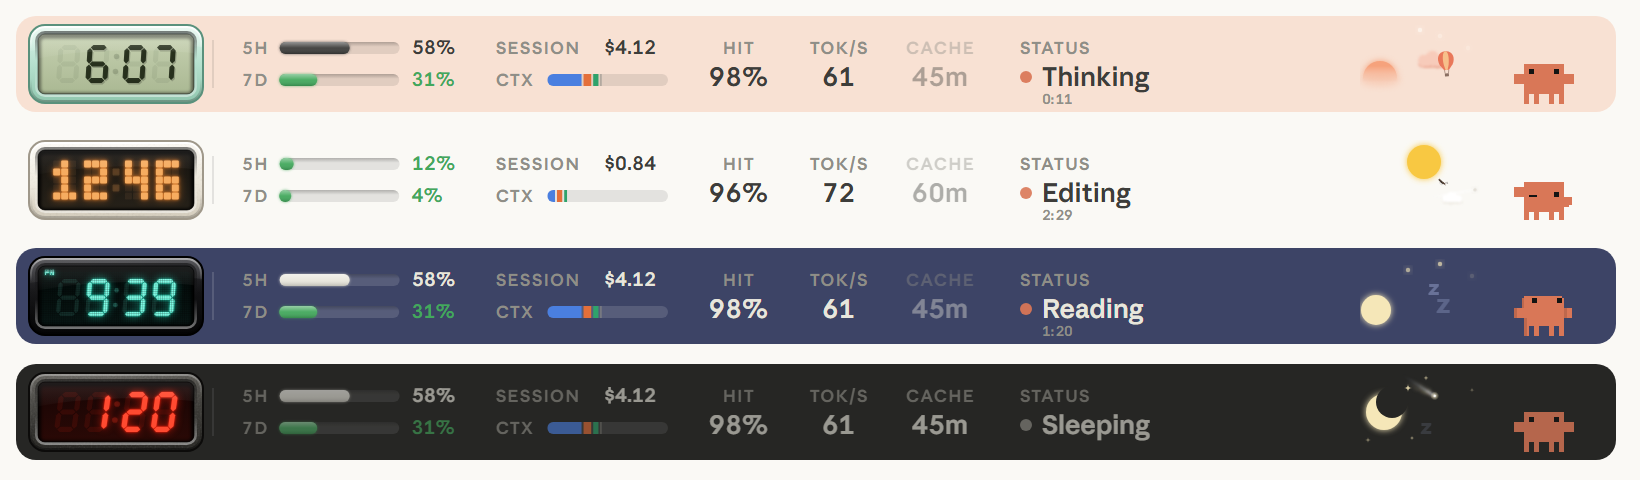
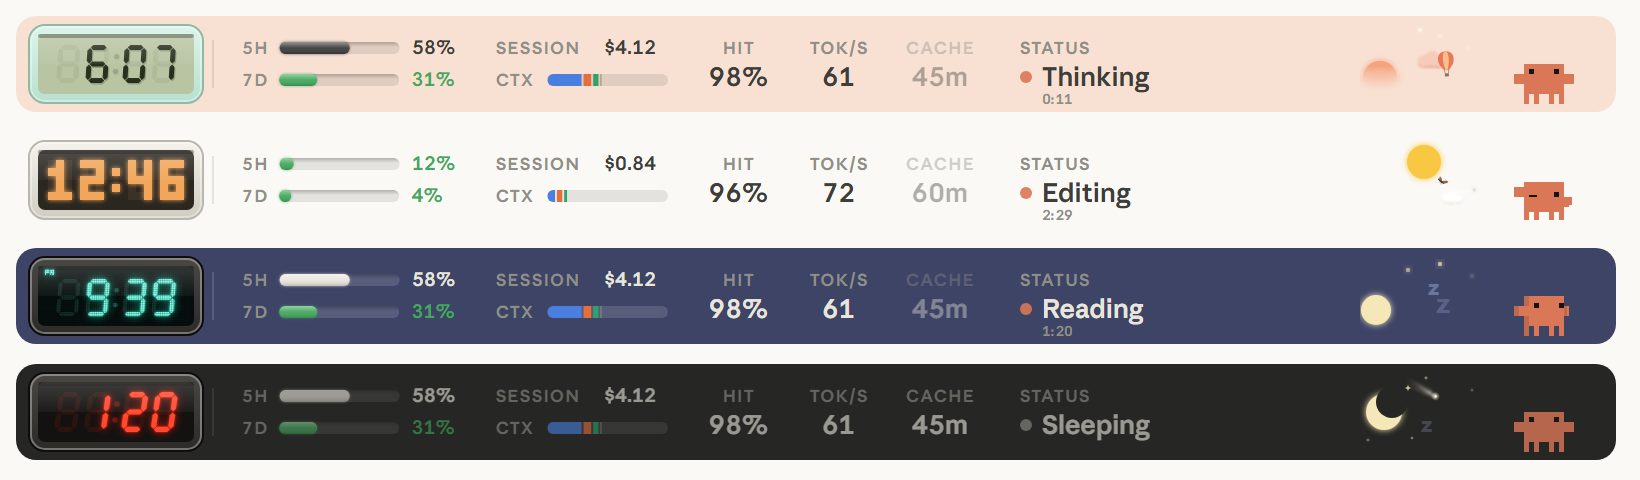
Clawd band 1.8.1: the original desk clock by day, and plain casings on the other clocks
Morning to the golden hour are the original cream desk clock again. The dawn, dusk, evening and night clocks drop the realistic textures, bevels and shading and use the desk clock's own casing in their colours.

diff --git a/clawd-band/hooks/clocks.ts b/clawd-band/hooks/clocks.ts
@@ -1,72 +1,24 @@
 import { DAY_PERIODS, periodAt } from './design'
+import { deskClock } from './pixel-clock'
 
-// The band's clock: one fixed look for each stage of the day, all in the same 88 by 40 casing.
-// Each is one standalone SVG: a casing (material, bevel, rim), a recessed screen (inner shadow, glass glare) and a digit style.
+// The band's clock: a look for each stage of the day, all in the desk clock's 88 by 40 casing.
+// Morning to the golden hour keep the desk clock itself; the other stages change the casing's
+// colour, the screen and the digits.
 
-type Stop = [number, string, number?]
 type Time = { H: number; m: number; s: number; pm: boolean; hr: string; mm: string; h1: string | null; h2: string; m1: string; m2: string }
 type Glow = [string, number, number, number, number]
-type Material = { base: Stop[]; rim: string; hi: number; lo: number; tex?: string }
-type Screen = { base: Stop[]; sh: number; glare: number; edge?: number }
-type Look = { mat: Material; scr: Screen; fmt: '12' | '24'; draw: (t: Time) => string }
+type Look = { top: string; bot: string; rim: string; screen: string; fmt: '12' | '24'; draw: (t: Time) => string }
 
 const r2 = (n: number) => Math.round(n * 100) / 100
-const rr = (x: number, y: number, w: number, h: number, r: number) =>
-  `M${x + r} ${y}H${x + w - r}A${r} ${r} 0 0 1 ${x + w} ${y + r}V${y + h - r}A${r} ${r} 0 0 1 ${x + w - r} ${y + h}H${x + r}A${r} ${r} 0 0 1 ${x} ${y + h - r}V${y + r}A${r} ${r} 0 0 1 ${x + r} ${y}Z`
-const BODY = 'x=".5" y=".5" width="87" height="39" rx="8"'
-const SCREEN = 'x="5" y="5" width="78" height="30" rx="3.5"'
-const RING = rr(3.5, 3.5, 81, 33, 5) + rr(5, 5, 78, 30, 3.5)
-const FU = 'filterUnits="userSpaceOnUse" color-interpolation-filters="sRGB"'
-const SCR_F = `x="5" y="5" width="78" height="30" ${FU}`
-const stops = (s: Stop[]) => s.map(([o, c, a]) => `<stop offset="${o}" stop-color="${c}"${a == null ? '' : ` stop-opacity="${a}"`}/>`).join('')
-const lin = (id: string, s: Stop[], x2 = 0, y2 = 1) => `<linearGradient id="${id}" x1="0" y1="0" x2="${x2}" y2="${y2}">${stops(s)}</linearGradient>`
-const rad = (id: string, s: Stop[], cx = 0.5, cy = 0.5, r = 0.5) => `<radialGradient id="${id}" cx="${cx}" cy="${cy}" r="${r}">${stops(s)}</radialGradient>`
 const BLINK = '<animate attributeName="opacity" values="1;.12" keyTimes="0;.5" calcMode="discrete" dur="2s" repeatCount="indefinite"/>'
 
 // A lit element's glow: a tight and a wide halo in `c`, under the element itself.
 const glowF = (id: string, c: string, sd1: number, a1: number, sd2: number, a2: number) =>
-  `<filter id="${id}" ${SCR_F}>` +
+  `<filter id="${id}" x="5" y="5" width="78" height="30" filterUnits="userSpaceOnUse" color-interpolation-filters="sRGB">` +
   `<feGaussianBlur in="SourceAlpha" stdDeviation="${sd1}" result="b1"/><feGaussianBlur in="SourceAlpha" stdDeviation="${sd2}" result="b2"/>` +
   `<feFlood flood-color="${c}"/><feComposite in2="b1" operator="in"/><feComponentTransfer result="g1"><feFuncA type="linear" slope="${a1}"/></feComponentTransfer>` +
   `<feFlood flood-color="${c}"/><feComposite in2="b2" operator="in"/><feComponentTransfer result="g2"><feFuncA type="linear" slope="${a2}"/></feComponentTransfer>` +
   `<feMerge><feMergeNode in="g2"/><feMergeNode in="g1"/><feMergeNode in="SourceGraphic"/></feMerge></filter>`
-
-// ---- textures: a noise field turned into dark grains (where high) and light grains (where low) ----
-const grainF = (id: string, turb: string, k: number, kl = k) =>
-  `<filter id="${id}" x="0" y="0" width="88" height="40" ${FU}>${turb.replace('/>', ' result="n"/>')}` +
-  `<feColorMatrix in="n" values="0 0 0 0 0 0 0 0 0 0 0 0 0 0 0 ${k} 0 0 0 ${-k / 2}" result="d"/>` +
-  `<feColorMatrix in="n" values="0 0 0 0 1 0 0 0 0 1 0 0 0 0 1 ${-kl} 0 0 0 ${kl / 2}" result="l"/>` +
-  `<feMerge><feMergeNode in="d"/><feMergeNode in="l"/></feMerge></filter><rect width="88" height="40" filter="url(#${id})"/>`
-const turb = (f: string, o: number, seed: number) => `<feTurbulence type="fractalNoise" baseFrequency="${f}" numOctaves="${o}" seed="${seed}"/>`
-
-// ---- sheens over the casing ----
-const satin = (a: number) =>
-  `<radialGradient id="sa" cx=".28" cy="-.15" r=".95"><stop offset="0" stop-color="#fff" stop-opacity="${a}"/><stop offset="1" stop-color="#fff" stop-opacity="0"/></radialGradient><rect ${BODY} fill="url(#sa)"/>`
-const gloss = (a: number) =>
-  lin('gs', [[0, '#fff', a], [1, '#fff', a * 0.25]]) + `<path clip-path="url(#bc)" d="M0 0H88V11.5C63 9.2 25 9.6 0 13.6Z" fill="url(#gs)"/>`
-
-// ---- casings: base is the vertical gradient; hi and lo the bevel's light on top and shade below; rim the outer edge ----
-const MAT: Record<'cream' | 'graphite' | 'piano' | 'carbon' | 'mint', Material> = {
-  cream: { base: [[0, '#FAF7F0'], [0.55, '#ECE7DB'], [1, '#D2CBBB']], rim: '#9F988A', hi: 0.95, lo: 0.2, tex: grainF('pl', turb('.9', 1, 2), 0.1) + satin(0.5) },
-  graphite: { base: [[0, '#55534E'], [0.5, '#3D3C38'], [1, '#2A2926']], rim: '#0C0B0A', hi: 0.32, lo: 0.4, tex: grainF('gr', turb('1.1', 1, 4), 0.28, 0.18) + satin(0.16) },
-  piano: { base: [[0, '#2E2E33'], [0.45, '#121214'], [1, '#050506']], rim: '#000', hi: 0.5, lo: 0.4, tex: gloss(0.2) + satin(0.08) },
-  carbon: {
-    base: [[0, '#1D1E20'], [1, '#0B0B0C']], rim: '#000', hi: 0.4, lo: 0.5,
-    tex: lin('ch', [[0, '#050505'], [0.5, '#3B3C40'], [1, '#050505']]) + lin('cv', [[0, '#050505'], [0.5, '#2A2B2E'], [1, '#050505']], 1, 0) +
-      '<pattern id="cw" width="4.4" height="4.4" patternUnits="userSpaceOnUse" patternTransform="rotate(45)"><rect width="2.2" height="2.2" fill="url(#ch)"/><rect x="2.2" y="2.2" width="2.2" height="2.2" fill="url(#ch)"/><rect x="2.2" width="2.2" height="2.2" fill="url(#cv)"/><rect y="2.2" width="2.2" height="2.2" fill="url(#cv)"/></pattern>' +
-      '<rect width="88" height="40" fill="url(#cw)" opacity=".85"/>' + gloss(0.14) + satin(0.1),
-  },
-  mint: { base: [[0, '#DDF4EA'], [0.5, '#B6E1CE'], [1, '#90C6AE']], rim: '#5A917C', hi: 0.9, lo: 0.25, tex: gloss(0.5) },
-}
-
-// ---- screens: base gradient, inner shadow strength, glass glare ----
-const SCR: Record<'amber' | 'red' | 'vfd' | 'jet' | 'lcd', Screen> = {
-  amber: { base: [[0, '#16130F'], [1, '#262119']], sh: 0.8, glare: 0.1 },
-  red: { base: [[0, '#170504'], [1, '#2A0906']], sh: 0.8, glare: 0.11 },
-  vfd: { base: [[0, '#020807'], [1, '#081614']], sh: 0.85, glare: 0.12 },
-  jet: { base: [[0, '#020203'], [1, '#0C0C0E']], sh: 0.85, glare: 0.14 },
-  lcd: { base: [[0, '#C6D1B1'], [1, '#AAB893']], sh: 0.45, glare: 0.18, edge: 0.45 },
-}
 
 // ---- time ----
 function time(ms: number, fmt: '12' | '24'): Time {
@@ -111,26 +63,6 @@ const seg7 = (o: Seven) => (t: Time) => {
     `<g fill="${o.c}"${o.op ? ` fill-opacity="${o.op}"` : ''}${g1 ? ' filter="url(#lg)"' : ''}>${lit}${colon}${o.pm ? o.pm(t) : ''}</g>` + (o.over ?? '')
 }
 
-// ---- a 3 by 5 pixel font, each pixel a rounded square, with the unlit ones faintly showing ----
-const F3: Record<string, string[]> = {
-  0: ['###', '#.#', '#.#', '#.#', '###'], 1: ['.#.', '##.', '.#.', '.#.', '###'], 2: ['###', '..#', '###', '#..', '###'],
-  3: ['###', '..#', '.##', '..#', '###'], 4: ['#.#', '#.#', '###', '..#', '..#'], 5: ['###', '#..', '###', '..#', '###'],
-  6: ['###', '#..', '###', '#.#', '###'], 7: ['###', '..#', '.#.', '.#.', '.#.'], 8: ['###', '#.#', '###', '#.#', '###'],
-  9: ['###', '#.#', '###', '..#', '###'],
-}
-const pixel = (o: { pitch: number; size: number; rx: number; sp: number; cg: number; c: string; ghost: number; glow: Glow }) => (t: Time) => {
-  const cw = 3 * o.pitch, { xs, cx } = row(cw - (o.pitch - o.size), o.sp, o.cg), y0 = 20 - (5 * o.pitch - (o.pitch - o.size)) / 2
-  const cell = (x: number, y: number) => `<rect x="${r2(x)}" y="${r2(y)}" width="${o.size}" height="${o.size}" rx="${o.rx}"/>`
-  let lit = '', off = ''
-  digits(t).forEach((n, i) => F3['8']!.forEach((r, y) => [...r].forEach((_, c) => {
-    const e = cell(xs[i]! + c * o.pitch, y0 + y * o.pitch)
-    if (n != null && F3[n]![y]![c] === '#') lit += e
-    else off += e
-  })))
-  const colon = [1, 3].map(r => cell(cx - o.size / 2, y0 + r * o.pitch)).join('')
-  return glowF('lg', ...o.glow) + `<g fill="${o.c}" fill-opacity="${o.ghost}">${off}${colon}</g><g fill="${o.c}" filter="url(#lg)">${lit}<g>${colon}${BLINK}</g></g>`
-}
-
 // ---- hand-drawn single-stroke figures in a 10 by 16 box ----
 const G: Record<string, string> = {
   0: 'M5 0C2.2 0 .6 3 .6 8S2.2 16 5 16 9.4 13 9.4 8 7.8 0 5 0Z',
@@ -167,19 +99,18 @@ const secBar = (c: string) => () =>
   `<rect x="18" y="31" width="0" height=".7" rx=".35" fill="${c}"><animate attributeName="width" values="0;52" dur="60s" repeatCount="indefinite"/></rect>`
 const MESH = '<pattern id="vm" width="1.1" height="1.1" patternUnits="userSpaceOnUse"><path d="M0 .05H1.1M.05 0V1.1" stroke="#000" stroke-width=".22" stroke-opacity=".55"/></pattern><rect x="5" y="5" width="78" height="30" fill="url(#vm)"/>'
 
-// ---- the five looks ----
+// ---- the looks that change the casing: its colours, the screen and the digits ----
+const DARK = { top: '#4A4843', bot: '#2B2A27', rim: '#0E0D0C' }
 export type ClockLook = 'lcd' | 'desk' | 'carbon' | 'vfd' | 'bedside'
-const LOOKS: Record<ClockLook, Look> = {
+const LOOKS: Record<Exclude<ClockLook, 'desk'>, Look> = {
   // mint enamel and a reflective LCD
-  lcd: { mat: MAT.mint, scr: SCR.lcd, fmt: '12', draw: seg7({ w: 11, h: 19, th: 2.5, sl: 4, c: '#18210F', op: 0.88, ghost: 0.06, lcd: '.55 .8', pm: pmMark(8.6, 9.6, '#18210F', 0) }) },
-  // cream plastic and amber pixels on a dark LCD
-  desk: { mat: MAT.cream, scr: SCR.amber, fmt: '24', draw: pixel({ pitch: 4, size: 3.45, rx: 0.45, sp: 4, cg: 9, c: '#F6AC60', ghost: 0.08, glow: ['#FF8A2A', 0.7, 0.9, 2, 0.6] }) },
-  // carbon fibre and thin white figures with a seconds bar
-  carbon: { mat: MAT.carbon, scr: SCR.jet, fmt: '24', draw: thin({ sc: 1.06, sp: 3.6, cg: 7, sw: 1.25, cy: 19, c: '#F4F7FA', cc: '#FF3B30', dot: 0.85, glow: ['#BFD8FF', 0.5, 0.7, 1.6, 0.35], over: secBar('#FF3B30') }) },
-  // piano black and teal vacuum-fluorescent digits
-  vfd: { mat: MAT.piano, scr: SCR.vfd, fmt: '12', draw: seg7({ w: 11, h: 18.5, th: 2.1, g: 0.35, sl: 5, cy: 20.8, c: '#7CFBE4', gc: '#58B9AA', ghost: 0.16, glow: ['#22E3C2', 0.6, 1.2, 2.2, 0.8], pm: pmMark(8.5, 9.6, '#7CFBE4', 0.15), over: MESH }) },
-  // graphite and red slanted seven-segment: the bedside clock
-  bedside: { mat: MAT.graphite, scr: SCR.red, fmt: '12', draw: seg7({ w: 11.2, h: 20, th: 2.6, sl: 8, c: '#FF4A30', gc: '#FF2A14', ghost: 0.1, glow: ['#FF1E0A', 0.6, 1.1, 2, 0.75], pm: t => (t.pm ? '<circle cx="9.6" cy="9.3" r=".9"/>' : '') }) },
+  lcd: { top: '#DDF4EA', bot: '#B6E1CE', rim: '#8FB8A5', screen: '#B8C4A2', fmt: '12', draw: seg7({ w: 11, h: 19, th: 2.5, sl: 4, c: '#18210F', op: 0.88, ghost: 0.06, lcd: '.55 .8', pm: pmMark(8.6, 9.6, '#18210F', 0) }) },
+  // thin white figures with a seconds bar
+  carbon: { ...DARK, screen: '#050506', fmt: '24', draw: thin({ sc: 1.06, sp: 3.6, cg: 7, sw: 1.25, cy: 19, c: '#F4F7FA', cc: '#FF3B30', dot: 0.85, glow: ['#BFD8FF', 0.5, 0.7, 1.6, 0.35], over: secBar('#FF3B30') }) },
+  // teal vacuum-fluorescent digits
+  vfd: { ...DARK, screen: '#06100E', fmt: '12', draw: seg7({ w: 11, h: 18.5, th: 2.1, g: 0.35, sl: 5, cy: 20.8, c: '#7CFBE4', gc: '#58B9AA', ghost: 0.16, glow: ['#22E3C2', 0.6, 1.2, 2.2, 0.8], pm: pmMark(8.5, 9.6, '#7CFBE4', 0.15), over: MESH }) },
+  // red slanted seven-segment: the bedside clock
+  bedside: { ...DARK, screen: '#141210', fmt: '12', draw: seg7({ w: 11.2, h: 20, th: 2.6, sl: 8, c: '#FF4A30', gc: '#FF2A14', ghost: 0.1, glow: ['#FF1E0A', 0.6, 1.1, 2, 0.75], pm: t => (t.pm ? '<circle cx="9.6" cy="9.3" r=".9"/>' : '') }) },
 }
 
 // The look for each of the day's eight periods, then the night's.
@@ -193,21 +124,19 @@ export function lookAt(ms: number): ClockLook {
 
 // The time `shown`, drawn in the look of the stage `now` falls in.
 export function clockSvg(shown: number, now = shown): { source: string; width: number; height: number; look: ClockLook } {
-  const look = lookAt(now), { mat: m, scr: s, fmt, draw } = LOOKS[look]
+  const look = lookAt(now)
+  if (look === 'desk') return { ...deskClock(shown), look }
+  const { top, bot, rim, screen, fmt, draw } = LOOKS[look]
   const source =
     '<svg xmlns="http://www.w3.org/2000/svg" viewBox="0 0 88 40" width="88" height="40"><defs>' +
-    lin('bd', m.base) + lin('bv', [[0, '#fff', m.hi], [0.3, '#fff', 0], [0.7, '#000', 0], [1, '#000', m.lo]]) +
-    lin('rc', [[0, '#000', 0.5], [0.45, '#000', 0], [0.55, '#fff', 0], [1, '#fff', 0.45]]) + lin('sf', s.base) +
-    lin('gl', [[0, '#fff', s.glare], [1, '#fff', s.glare * 0.15]]) +
-    `<clipPath id="bc"><rect ${BODY}/></clipPath><clipPath id="sc"><rect ${SCREEN}/></clipPath>` +
-    `<filter id="is" x="0" y="0" width="88" height="40" ${FU}><feGaussianBlur stdDeviation=".9"/></filter></defs>` +
-    `<rect ${BODY} fill="url(#bd)"/>` + (m.tex ? `<g clip-path="url(#bc)">${m.tex}</g>` : '') +
-    '<rect x="1.25" y="1.25" width="85.5" height="37.5" rx="7.25" fill="none" stroke="url(#bv)" stroke-width="1.5"/>' +
-    `<rect ${BODY} fill="none" stroke="${m.rim}"/>` +
-    `<path d="${RING}" fill="url(#rc)" fill-rule="evenodd"/><rect ${SCREEN} fill="url(#sf)"/>` +
-    `<g clip-path="url(#sc)">${draw(time(shown, fmt))}` +
-    `<rect ${SCREEN} fill="none" stroke="#000" stroke-opacity="${s.sh}" stroke-width="3" filter="url(#is)" transform="translate(0 .8)"/>` +
-    '<path d="M5 5H83V14.6C62 12.2 28 12.6 5 17.2Z" fill="url(#gl)"/></g>' +
-    `<rect ${SCREEN} fill="none" stroke="#000" stroke-opacity="${s.edge ?? 0.6}" stroke-width=".5"/></svg>`
+    `<linearGradient id="cb-case" x1="0" y1="0" x2="0" y2="1"><stop offset="0" stop-color="${top}"/><stop offset="1" stop-color="${bot}"/></linearGradient>` +
+    '<linearGradient id="cb-glass" x1="0" y1="0" x2="0" y2="1"><stop offset="0" stop-color="#fff" stop-opacity=".18"/><stop offset=".5" stop-color="#fff" stop-opacity=".04"/><stop offset=".5" stop-color="#fff" stop-opacity="0"/></linearGradient>' +
+    '<clipPath id="sc"><rect x="5" y="5" width="78" height="30" rx="3.5"/></clipPath></defs>' +
+    `<rect x=".5" y=".5" width="87" height="39" rx="8" fill="url(#cb-case)" stroke="${rim}"/>` +
+    '<rect x="1.5" y="1.5" width="85" height="37" rx="7" fill="none" stroke="#fff" stroke-opacity=".35"/>' +
+    `<rect x="5" y="5" width="78" height="30" rx="3.5" fill="${screen}"/>` +
+    `<g clip-path="url(#sc)">${draw(time(shown, fmt))}</g>` +
+    '<rect x="5" y="5" width="78" height="2" rx="1" fill="#000" fill-opacity=".35"/>' +
+    '<rect x="5" y="5" width="78" height="30" rx="3.5" fill="url(#cb-glass)"/></svg>'
   return { source, width: 88, height: 40, look }
 }

diff --git a/clawd-band/hooks/pixel-clock.ts b/clawd-band/hooks/pixel-clock.ts
@@ -69,6 +69,52 @@ function countingDigit(x0: number, y0: number, count: number, step: number, at: 
   return out
 }
 
+// The desk clock's casing, screen and lit-pixel colours.
+const CASE_STYLE = `<style>:root{--rim:#B9B6AD;--top:#F4F2EC;--bot:#CFCBC1;--screen:#2A2620;--lit:#F2A65A}</style>`
+
+const CASE_DEFS =
+  `<defs>` +
+  `<linearGradient id="cb-case" x1="0" y1="0" x2="0" y2="1"><stop offset="0" style="stop-color:var(--top)"/><stop offset="1" style="stop-color:var(--bot)"/></linearGradient>` +
+  `<linearGradient id="cb-glass" x1="0" y1="0" x2="0" y2="1"><stop offset="0" stop-color="#fff" stop-opacity=".18"/><stop offset=".5" stop-color="#fff" stop-opacity=".04"/><stop offset=".5" stop-color="#fff" stop-opacity="0"/></linearGradient>` +
+  `<filter id="cb-glow" x="-20%" y="-20%" width="140%" height="140%"><feGaussianBlur stdDeviation="1.2" result="b"/><feMerge><feMergeNode in="b"/><feMergeNode in="SourceGraphic"/></feMerge></filter>` +
+  `</defs>`
+
+// HH:MM in the pixel font, lit amber on a recessed LCD
+// inside a bevelled desk-clock casing, with the unlit segments faintly behind them.
+export function deskClock(ms: number): { source: string; width: number; height: number } {
+  const text = clockText(ms)
+  const dx = 10
+  const dy = 10
+  let x = 0
+  let lit = ''
+  let ghost = ''
+  for (const ch of text) {
+    lit += glyph(ch, dx + x, dy, PIXEL)
+    if (ch !== ':') ghost += glyph('8', dx + x, dy, PIXEL)
+    x += (FONT[ch][0].length + 1) * PIXEL
+  }
+  const width = dx + x - PIXEL + dx
+  const height = 40
+  return {
+    source:
+      `<svg xmlns="http://www.w3.org/2000/svg" viewBox="0 0 ${width} ${height}" width="${width}" height="${height}">` +
+      CASE_STYLE + CASE_DEFS +
+      // Casing: a bevelled body with a dark rim and a bright top edge.
+      `<rect x=".5" y=".5" width="${width - 1}" height="${height - 1}" rx="8" fill="url(#cb-case)" style="stroke:var(--rim)"/>` +
+      `<rect x="1.5" y="1.5" width="${width - 3}" height="${height - 3}" rx="7" fill="none" stroke="#fff" stroke-opacity=".35"/>` +
+      // Screen: recessed, with a shadowed top lip.
+      `<rect x="5" y="5" width="${width - 10}" height="${height - 10}" rx="3.5" style="fill:var(--screen)"/>` +
+      `<rect x="5" y="5" width="${width - 10}" height="2" rx="1" fill="#000" fill-opacity=".35"/>` +
+      `<g shape-rendering="crispEdges" style="fill:var(--lit)" fill-opacity=".09">${ghost}</g>` +
+      `<g shape-rendering="crispEdges" style="fill:var(--lit)" filter="url(#cb-glow)">${lit}</g>` +
+      // Glass glare over the top half of the screen.
+      `<rect x="5" y="5" width="${width - 10}" height="${height - 10}" rx="3.5" fill="url(#cb-glass)"/>` +
+      `</svg>`,
+    width,
+    height,
+  }
+}
+
 // Any text in the pixel font, `px` screen pixels per font pixel.
 export function pixelText(text: string, px = PIXEL): { source: string; width: number; height: number } {
   let x = 0

diff --git a/clawd-band/README.md b/clawd-band/README.md
@@ -4,13 +4,13 @@ The Claude desktop app's animated Clawd, living in a band above the prompt box w
 
 ![The band at dawn, midday, evening and night](docs/band.png)
 
-Version **1.8.0**. The full feature list is in [FEATURES.txt](FEATURES.txt).
+Version **1.8.1**. The full feature list is in [FEATURES.txt](FEATURES.txt).
 
 ## What's on the band
 
 **Left: the clock and stats.**
 
-- **Clock**: a different one for each stage of the day: a mint LCD at dawn, an amber pixel desk clock from morning to the golden hour, thin white figures on carbon fibre at dusk, teal vacuum-fluorescent digits in the evening, and a red LED bedside clock at night.
+- **Clock**: a different one for each stage of the day, all in the same casing: a mint LCD at dawn, the amber pixel desk clock from morning to the golden hour, thin white figures at dusk, teal vacuum-fluorescent digits in the evening, and a red LED bedside clock at night.
 - **5H / 7D**: your 5-hour and 7-day usage limits, as glowing bars. The bar and its percent change colour as the limit fills:
 
   | Used | Colour |
